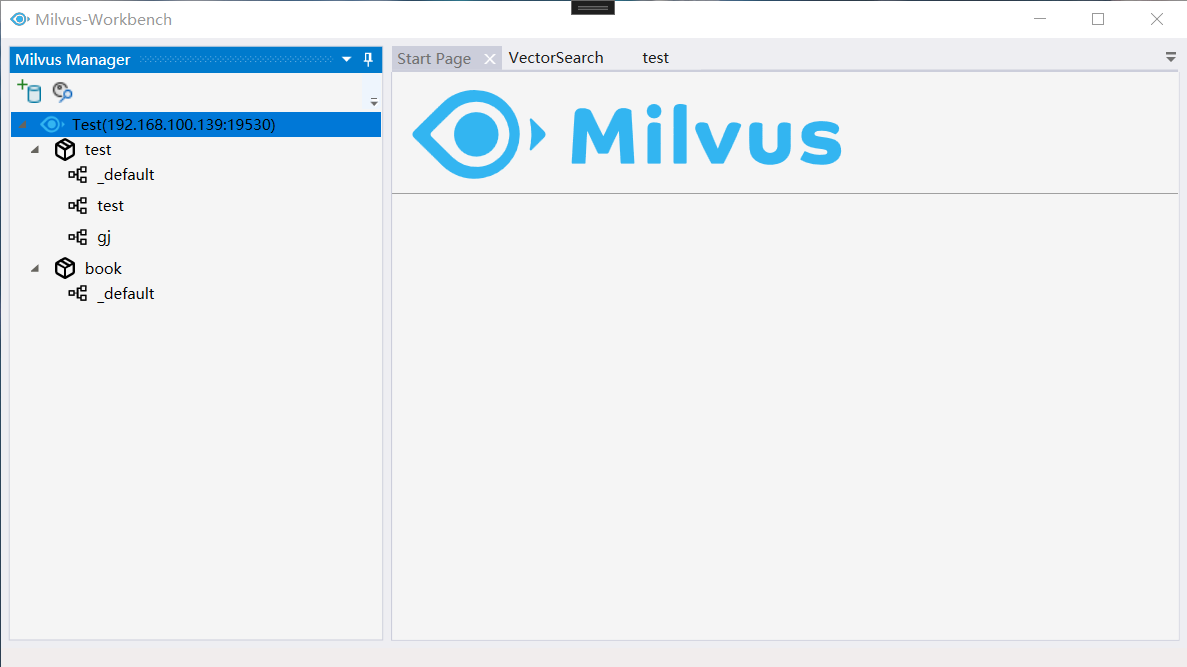
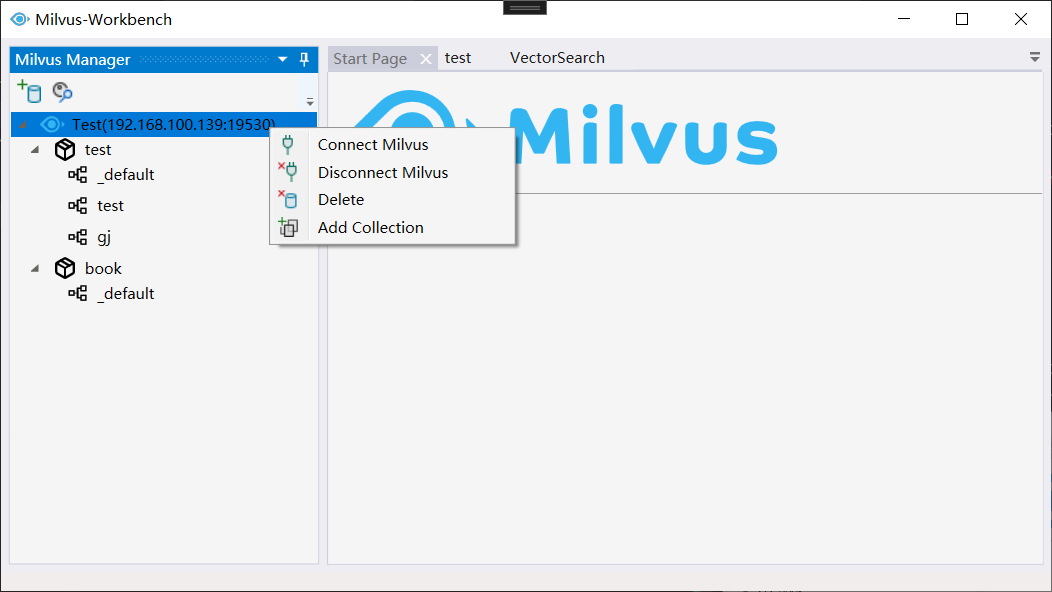
update readme

Changed region(s): [[0.0, 0.0, 1.0, 0.5169], [0.9125, 0.0, 1.0, 0.0304], [0.4563, 0.0, 0.5475, 0.0304]]

diff --git a/README.md b/README.md
@@ -12,8 +12,6 @@
 
 C# SDK for [Milvus](https://github.com/milvus-io/milvus).
 
-
-
 ## Getting Started
 
 **Visual Studio**
@@ -84,3 +82,11 @@ var defualtClient = MilvusServiceClient.CreateGrpcDefaultClient(
 If you want to use io.milvus in asp.net core, you can take a look at this [doc](https://docs.microsoft.com/zh-cn/aspnet/core/grpc/?view=aspnetcore-6.0).
 
 Use namespace of IO.Milvus.Grpc with [DI](https://docs.microsoft.com/zh-cn/aspnet/core/grpc/clientfactory?view=aspnetcore-6.0).
+
+## Milvus-Workbench
+
+### under development
+
+There is a project named milvus-workbench in src/IO.Milvus.Workbench.
+It's a desktop version to manager milvus connections.
+![](./resources/workbench.png)
